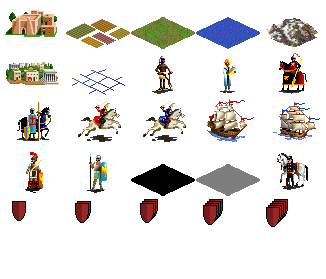
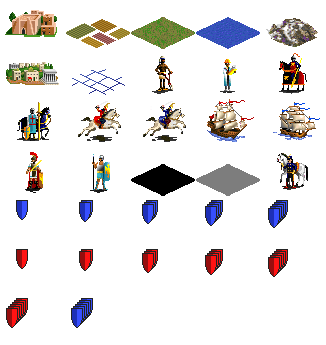
added sixth power level

diff --git a/app/assets/javascripts/game/render.js b/app/assets/javascripts/game/render.js
@@ -90,7 +90,19 @@ var drawFromSourceLookup = {
   ship1: { x: 4, y: 2 },
   ship2: { x: 3, y: 2 },
   garrison1: { x: 1, y: 3 },
-  garrison2: { x: 0, y: 3 }
+  garrison2: { x: 0, y: 3 },
+  shield11: { x: 0 , y: 4 },
+  shield12: { x: 1 , y: 4 },
+  shield13: { x: 2 , y: 4 },
+  shield14: { x: 3 , y: 4 },
+  shield15: { x: 4 , y: 4 },
+  shield16: { x: 1 , y: 6 },
+  shield21: { x: 0 , y: 5 },
+  shield22: { x: 1 , y: 5 },
+  shield23: { x: 2 , y: 5 },
+  shield24: { x: 3 , y: 5 },
+  shield25: { x: 4 , y: 5 },
+  shield26: { x: 1 , y: 6 }
 }
 
 function drawSquareShape(color, x, y) {
@@ -149,6 +161,8 @@ function findImagesSources(square) {
     } else {
       output.push(unitTypeMapper(square)[0] + square.player.number);
     }
+
+    output.push("shield" + square.player.number + "" + findPowerRange(square));
   }
 
   return output;

diff --git a/app/assets/javascripts/game/helpers.js b/app/assets/javascripts/game/helpers.js
@@ -99,3 +99,26 @@ function elementIsInArray(element, array) {
   }
   return false;
 }
+
+// Returns the power range of square for use in shield rendering
+function findPowerRange(square) {
+  
+  var counter = 0;
+  for (var i = 0; i < square.units.length; i++) {
+    counter += powerLookup[square.units[i].type];
+  }
+
+  if (counter > 500) {
+    return 6;
+  } else if (counter > 256) {
+    return 5;
+  } else if (counter > 64) {
+    return 4;
+  } else if (counter > 16) {
+    return 3;
+  } else if (counter > 4) {
+    return 2;
+  } else {
+    return 1;
+  }
+}
